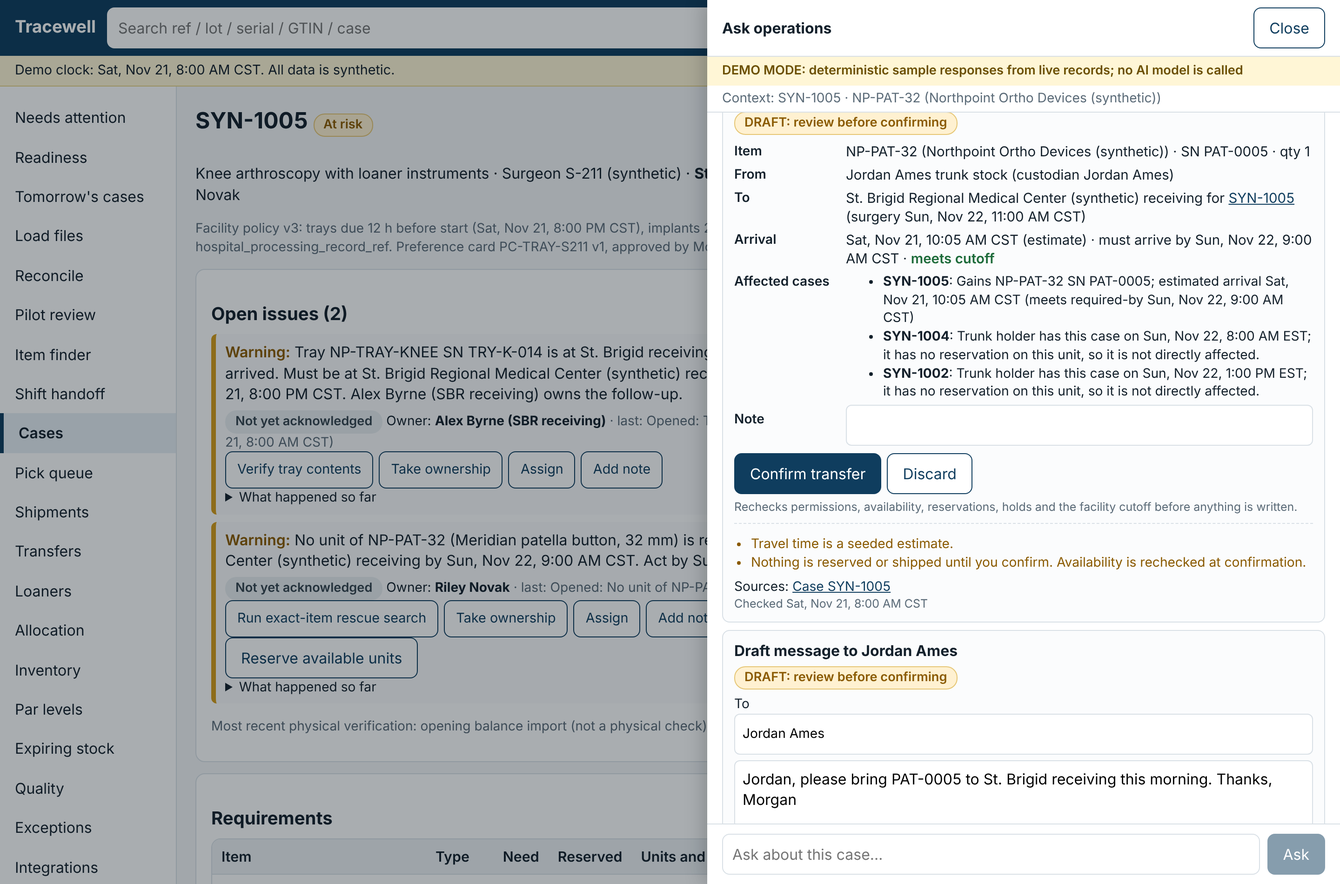
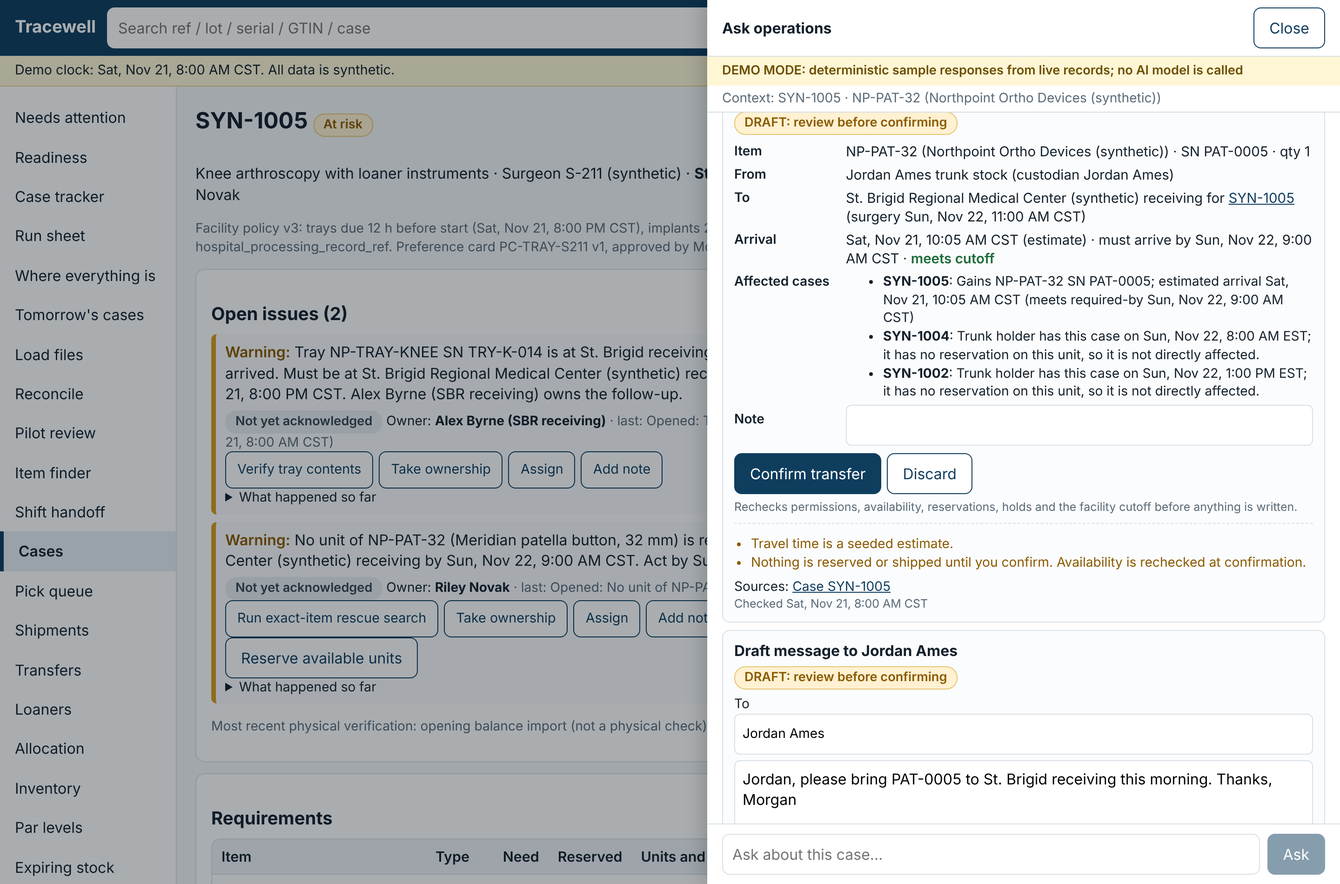
Case tracker, where everything is, run sheet, and whose-work filter on the queue
- Case tracker: each case from entry to close in seven stages, with the one thing it is waiting on.
- Where everything is: every unit by warehouse, reps, hospitals, in transit, quarantine and returns;
  reserved against free; items short for the planning window first.
- Run sheet: what has to leave, grouped by origin, in order of latest safe departure. Printable.
  A deadline order, not a distance-optimized route.
- Queue: filter by owner or by who an item is waiting on.

Claude-Session: https://claude.ai/code/session_01Axjjo4ZYpwGvBPpNfVL9QP

diff --git a/src/server/ops/visibility.ts b/src/server/ops/visibility.ts
@@ -1,0 +1,117 @@
+/**
+ * Three read-only views for Operations, all straight from the ledger and shipments:
+ *  - where every unit is right now (warehouse, reps, hospitals, in transit, quarantine), reserved or free
+ *  - each case's progress from entry to return
+ *  - today's and tomorrow's run sheet: what must leave where, in order of the latest safe departure
+ */
+import { Db, rows } from '../db.js';
+import { Ctx, can, requirePerm } from '../perms.js';
+import { now } from '../clock.js';
+import { fmtLocal } from '../domain/cases.js';
+import { caseScope } from '../perms.js';
+import { getSettings } from './settings.js';
+
+const BUCKET: Record<string, string> = { warehouse: 'warehouse', trunk: 'reps', consignment: 'hospitals', hospital_receiving: 'hospitals', hospital_spd: 'hospitals', in_transit: 'inTransit', quarantine: 'quarantine', returns: 'returns' };
+export const BUCKET_LABEL: Record<string, string> = { warehouse: 'Warehouse', reps: 'With reps', hospitals: 'At hospitals', inTransit: 'In transit', quarantine: 'Quarantine', returns: 'Being returned' };
+
+export async function whereIsEverything(db: Db, ctx: Ctx & { tenantTz?: string }) {
+  requirePerm(ctx, 'inventory.view');
+  const t = now(); const s = await getSettings(db);
+  const bal = await rows(db, `select b.qty, b.condition, st.id stock_item_id, st.lot_number, st.serial_number, st.expiry_date, ci.id catalog_item_id, ci.ref, ci.description, ci.item_type, l.id location_id, l.name location, l.kind, hu.display_name holder, p.name owner, p.kind owner_kind,
+      coalesce((select sum(r.qty) from reservations r where r.stock_item_id=b.stock_item_id and r.location_id=b.location_id and r.owner_party_id=b.owner_party_id and r.status='active'),0)::int reserved,
+      (select string_agg(distinct c.case_ref, ', ') from reservations r join cases c on c.id=r.case_id where r.stock_item_id=b.stock_item_id and r.location_id=b.location_id and r.status='active') reserved_for,
+      exists(select 1 from quality_holds h where h.stock_item_id=b.stock_item_id and h.status='active') on_hold,
+      (select sh.ref from shipment_lines sl join shipments sh on sh.id=sl.shipment_id where sl.stock_item_id=b.stock_item_id and sh.status='dispatched' limit 1) shipment_ref,
+      (select ln.ref from loaner_requests ln where ln.stock_item_id=b.stock_item_id and ln.status='received' limit 1) loaner_ref
+    from stock_balances b join stock_items st on st.id=b.stock_item_id join catalog_items ci on ci.id=st.catalog_item_id join locations l on l.id=b.location_id join parties p on p.id=b.owner_party_id left join users hu on hu.id=l.holder_user_id
+    where b.qty>0 and l.kind not in ('consumed','wasted','missing') and ci.item_type <> 'instrument' order by ci.ref, l.kind, l.name`);
+  const demand = new Map((await rows(db, `select cr.catalog_item_id, sum(greatest(cr.qty - coalesce((select sum(r.qty) from reservations r where r.requirement_id=cr.id and r.status='active'),0),0))::int n
+     from case_requirements cr join cases c on c.id=cr.case_id where cr.active and cr.mandatory and c.status='scheduled' and c.scheduled_start between $1 and $2 group by 1`, [t.toISOString(), new Date(t.getTime() + s.planningWindowHours * 3600e3).toISOString()])).map((d) => [d.catalog_item_id, d.n]));
+  const items = new Map<string, any>();
+  for (const b of bal) {
+    if (!items.has(b.catalog_item_id)) items.set(b.catalog_item_id, { catalogItemId: b.catalog_item_id, ref: b.ref, description: b.description, itemType: b.item_type, total: 0, reserved: 0, free: 0, onHold: 0, onLoan: 0, buckets: { warehouse: 0, reps: 0, hospitals: 0, inTransit: 0, quarantine: 0, returns: 0 }, units: [] as any[], unreservedDemand: demand.get(b.catalog_item_id) ?? 0 });
+    const it = items.get(b.catalog_item_id); const bucket = BUCKET[b.kind] ?? 'warehouse';
+    const usable = b.condition === 'sealed' && !b.on_hold && ['warehouse', 'reps', 'hospitals'].includes(bucket);
+    const free = usable ? Math.max(0, b.qty - b.reserved) : 0;
+    it.total += b.qty; it.buckets[bucket] += b.qty; it.reserved += b.reserved; it.free += free; if (b.on_hold) it.onHold += b.qty; if (b.loaner_ref) it.onLoan += b.qty;
+    it.units.push({ unit: b.serial_number ? `SN ${b.serial_number}` : `lot ${b.lot_number}`, location: b.location, bucket, bucketLabel: BUCKET_LABEL[bucket], holder: b.holder, qty: b.qty, reserved: b.reserved, reservedFor: b.reserved_for, free, condition: b.condition, onHold: b.on_hold,
+      expiry: b.expiry_date ? (typeof b.expiry_date === 'string' ? b.expiry_date : b.expiry_date.toISOString().slice(0, 10)) : null, owner: b.owner, loaner: b.loaner_ref, shipment: b.shipment_ref });
+  }
+  const list = [...items.values()].map((it) => ({ ...it, gap: Math.max(0, it.unreservedDemand - it.free) })).sort((a, b) => b.gap - a.gap || a.ref.localeCompare(b.ref));
+  const totals = list.reduce((a, it) => { for (const k of Object.keys(a)) a[k] += it.buckets[k]; return a; }, { warehouse: 0, reps: 0, hospitals: 0, inTransit: 0, quarantine: 0, returns: 0 } as Record<string, number>);
+  return { asOfLocal: fmtLocal(t, ctx.tenantTz ?? 'UTC'), windowHours: s.planningWindowHours, labels: BUCKET_LABEL, totals, items: list,
+    note: 'From the stock ledger at this moment. Free = sealed, not on hold, not reserved, in a warehouse, with a rep or at a hospital. It is as current as the last scan, count or upload recorded here.' };
+}
+
+const STAGES = ['Entered', 'Items reserved', 'Shipped', 'Checked in at hospital', 'Surgery done', 'Usage recorded', 'Closed'] as const;
+
+/** Each case from entry to close, with the one thing it is waiting on. */
+export async function caseTracker(db: Db, ctx: Ctx) {
+  requirePerm(ctx, 'board.view');
+  const t = now(); const s = await getSettings(db);
+  const [scope, sp] = caseScope(ctx, 3);
+  const cases = await rows(db, `select c.id, c.case_ref, c.status, c.scheduled_start, c.created_at, c.completed_at, f.name facility, f.timezone, f.id facility_id, u.display_name rep, c.procedure,
+      (select count(*)::int from case_requirements cr where cr.case_id=c.id and cr.active and cr.mandatory) reqs,
+      (select coalesce(sum(cr.qty),0)::int from case_requirements cr where cr.case_id=c.id and cr.active and cr.mandatory) need,
+      (select coalesce(sum(r.qty),0)::int from reservations r join case_requirements cr on cr.id=r.requirement_id where r.case_id=c.id and r.status in ('active','consumed') and cr.active and cr.mandatory) held,
+      (select coalesce(sum(r.qty),0)::int from reservations r join locations l on l.id=r.location_id where r.case_id=c.id and r.status='active' and l.facility_id=c.facility_id and l.kind in ('hospital_receiving','hospital_spd','consignment')) at_site,
+      (select coalesce(sum(r.qty),0)::int from reservations r where r.case_id=c.id and r.status='active') active_resv,
+      (select count(*)::int from shipments sh where sh.case_id=c.id and sh.status in ('planned','picked','packed')) not_left,
+      (select count(*)::int from shipments sh where sh.case_id=c.id and sh.status='dispatched') on_road,
+      (select count(*)::int from shipments sh where sh.case_id=c.id and sh.status='delivered') delivered,
+      (select count(*)::int from shipments sh where sh.case_id=c.id and sh.status in ('received','closed')) received,
+      (select count(*)::int from usage_events ue where ue.case_id=c.id and ue.status='recorded') usage,
+      (select count(*)::int from usage_events ue where ue.case_id=c.id and ue.status='needs_review') usage_review,
+      (select coalesce(sum(b.qty),0)::int from stock_balances b join locations l on l.id=b.location_id where l.facility_id=c.facility_id and l.kind in ('hospital_receiving','hospital_spd') and b.qty>0
+         and b.stock_item_id in (select sl.stock_item_id from shipment_lines sl join shipments sh on sh.id=sl.shipment_id where sh.case_id=c.id)) left_at_site,
+      (select string_agg(ln.ref, ', ') from loaner_requests ln where ln.case_id=c.id and ln.status in ('requested','confirmed','shipped','received')) loaners,
+      (select string_agg(tr.ref, ', ') from transfer_requests tr where tr.case_id=c.id and tr.status='requested') transfers
+    from cases c join facilities f on f.id=c.facility_id left join users u on u.id=c.rep_user_id
+    where c.status <> 'cancelled' and c.scheduled_start between $1 and $2 and ${scope} order by c.scheduled_start`, [new Date(t.getTime() - 7 * 86400e3).toISOString(), new Date(t.getTime() + Math.max(s.planningWindowHours, 168) * 3600e3).toISOString(), ...sp]);
+  const out = cases.map((c) => {
+    const past = new Date(c.scheduled_start) < t; const doneCase = ['completed', 'closed'].includes(c.status);
+    const reserved = c.reqs > 0 && c.held >= c.need;
+    const allAtSite = c.active_resv > 0 && c.at_site >= c.active_resv;
+    const shipped = reserved && (allAtSite || (c.not_left === 0 && (c.on_road + c.delivered + c.received) > 0));
+    const checkedIn = reserved && (allAtSite || (c.not_left === 0 && c.on_road === 0 && c.delivered === 0 && c.received > 0));
+    const done = [true, reserved || doneCase, shipped || doneCase, checkedIn || doneCase, doneCase, doneCase && c.usage_review === 0 && (c.usage > 0 || c.status === 'closed'), c.status === 'closed'];
+    const idx = done.findIndex((d) => !d); const stage = idx === -1 ? STAGES.length - 1 : idx - 1;
+    const waiting = idx === -1 ? null : idx === 1 ? (c.reqs === 0 ? 'Requirements have not been loaded' : `${c.need - c.held} unit(s) still to reserve${c.transfers ? ` (${c.transfers} awaiting acceptance)` : ''}${c.loaners ? ` (${c.loaners} on the way)` : ''}`)
+      : idx === 2 ? (c.not_left ? `${c.not_left} shipment(s) not yet picked up` : 'Delivery not planned') : idx === 3 ? (c.delivered ? 'Hospital receiving to check the delivery in' : c.on_road ? 'On the road' : 'Not all items are at the hospital')
+      : idx === 4 ? (past ? 'Rep to complete the case and record what was used' : null) : idx === 5 ? (c.usage_review ? `${c.usage_review} usage record(s) need review` : 'Usage to be recorded') : (c.left_at_site ? `${c.left_at_site} unit(s) still at the hospital to bring back` : 'Closeout to finish');
+    return { id: c.id, caseRef: c.case_ref, facility: c.facility, rep: c.rep, procedure: c.procedure, startLocal: fmtLocal(c.scheduled_start, c.timezone), enteredLocal: fmtLocal(c.created_at, c.timezone), past, status: c.status,
+      stage, stageName: STAGES[stage], steps: STAGES.map((n, i) => ({ name: n, done: done[i] })), waitingOn: waiting, behind: !!waiting && (idx <= 3 ? hoursTo(c.scheduled_start, t) < 24 : past && hoursTo(c.scheduled_start, t) < -24),
+      leftAtSite: doneCase ? c.left_at_site : 0, loaners: c.loaners, transfers: c.transfers };
+  });
+  return { stages: STAGES, upcoming: out.filter((c) => !c.past), recent: out.filter((c) => c.past).reverse(), toBringBack: out.filter((c) => c.leftAtSite > 0).reduce((a, c) => a + c.leftAtSite, 0) };
+}
+const hoursTo = (iso: string, t: Date) => (new Date(iso).getTime() - t.getTime()) / 3600e3;
+
+/** What has to leave, from where, in order of the latest safe departure. Ordered by deadline; not optimized for distance. */
+export async function runSheet(db: Db, ctx: Ctx & { tenantTz?: string }) {
+  if (!can(ctx, 'shipment.pick') && !can(ctx, 'shipment.courier') && !can(ctx, 'attention.view')) requirePerm(ctx, 'shipment.pick');
+  const t = now(); const tz = ctx.tenantTz ?? 'UTC';
+  const sh = await rows(db, `select sh.id, sh.ref, sh.kind, sh.status, sh.due_by, sh.courier_name, c.case_ref, c.id case_id, c.scheduled_start, fl.id from_id, fl.name from_name, fl.kind from_kind, hu.display_name from_holder, tl.name to_name, tf.name to_facility, tf.timezone, tf.id to_facility_id,
+      te.minutes travel_min, (select coalesce(sum(sl.qty_expected),0)::int from shipment_lines sl where sl.shipment_id=sh.id) units,
+      (select string_agg(distinct ci.ref, ', ') from shipment_lines sl join stock_items st on st.id=sl.stock_item_id join catalog_items ci on ci.id=st.catalog_item_id where sl.shipment_id=sh.id) items,
+      tr.ref transfer_ref, tr.id transfer_id, tr.pickup_by, tr.pickup_at, tr.receiver
+    from shipments sh join locations fl on fl.id=sh.from_location_id join locations tl on tl.id=sh.to_location_id left join facilities tf on tf.id=tl.facility_id left join cases c on c.id=sh.case_id left join users hu on hu.id=fl.holder_user_id
+      left join travel_estimates te on te.from_location_id=sh.from_location_id and te.to_facility_id=tl.facility_id left join transfer_requests tr on tr.shipment_id=sh.id
+    where sh.status in ('planned','picked','packed','dispatched','delivered') and ($1::uuid is null or tl.facility_id=$1) order by sh.due_by nulls last`, [ctx.facilityId]);
+  const stops = sh.map((x) => {
+    const zone = x.timezone ?? tz; const due = x.due_by ? new Date(x.due_by) : null;
+    const leaveBy = due && x.travel_min != null ? new Date(due.getTime() - x.travel_min * 60e3) : null;
+    const moving = ['dispatched', 'delivered'].includes(x.status);
+    const next = x.status === 'planned' ? 'Pick' : x.status === 'picked' ? 'Pack' : x.status === 'packed' ? 'Hand to courier / dispatch' : x.status === 'dispatched' ? 'Deliver' : 'Hospital check-in';
+    const minutesLeft = !moving && leaveBy ? Math.round((leaveBy.getTime() - t.getTime()) / 60e3) : null;
+    return { id: x.id, ref: x.ref, kind: x.kind, kindLabel: x.transfer_ref ? `Transfer ${x.transfer_ref}` : x.kind === 'case_delivery' ? 'Case delivery' : x.kind === 'return' ? 'Return' : x.kind === 'replenishment' ? 'Replenishment' : 'Transfer', status: x.status, next, caseId: x.case_id, caseRef: x.case_ref,
+      from: x.from_name, fromHolder: x.from_holder, to: x.to_facility ?? x.to_name, units: x.units, items: x.items, travelMinutes: x.travel_min, dueLocal: due ? fmtLocal(due, zone) : null, leaveByLocal: leaveBy ? fmtLocal(leaveBy, zone) : null, minutesLeft,
+      late: minutesLeft != null && minutesLeft < 0, moving, who: x.pickup_by ?? x.courier_name ?? (x.from_kind === 'trunk' ? x.from_holder : 'Warehouse / courier'), plannedPickupLocal: x.pickup_at ? fmtLocal(x.pickup_at, zone) : null, receiver: x.receiver, transferId: x.transfer_id, sort: (leaveBy ?? due ?? new Date(8.64e15)).getTime() };
+  }).sort((a, b) => Number(a.moving) - Number(b.moving) || a.sort - b.sort);
+  const returns = can(ctx, 'loaner.view') ? (await rows(db, `select ln.id, ln.ref, ln.qty, ln.due_back, ln.source_name, ci.ref item_ref, c.case_ref, loc.name at_name from loaner_requests ln join catalog_items ci on ci.id=ln.catalog_item_id join cases c on c.id=ln.case_id left join locations loc on loc.id=ln.received_location_id where ln.status='received' order by ln.due_back`))
+    .map((l) => ({ id: l.id, ref: l.ref, qty: l.qty, item: l.item_ref, caseRef: l.case_ref, at: l.at_name, source: l.source_name, dueBack: typeof l.due_back === 'string' ? l.due_back : l.due_back?.toISOString().slice(0, 10) })) : [];
+  const groups = new Map<string, any[]>(); for (const st of stops.filter((x) => !x.moving)) { if (!groups.has(st.from)) groups.set(st.from, []); groups.get(st.from)!.push(st); }
+  return { asOfLocal: fmtLocal(t, tz), toLeave: [...groups.entries()].map(([from, list]) => ({ from, stops: list })), onTheRoad: stops.filter((x) => x.moving), loanerReturns: returns,
+    counts: { toLeave: stops.filter((x) => !x.moving).length, late: stops.filter((x) => x.late).length, onTheRoad: stops.filter((x) => x.moving).length },
+    note: 'In order of the latest safe departure: required-by time minus the travel estimate entered for that route. This is a deadline order, not a distance-optimized route, and travel times are estimates, not live traffic.' };
+}

diff --git a/src/web/pages/Visibility.tsx b/src/web/pages/Visibility.tsx
@@ -1,0 +1,78 @@
+/** Where everything is, each case from entry to close, and the run sheet. Read-only views over the ledger and shipments. */
+import React, { useEffect, useState } from 'react';
+import { Link } from 'react-router-dom';
+import { useData, Err } from '../App';
+
+const BUCKETS = ['warehouse', 'reps', 'hospitals', 'inTransit', 'quarantine', 'returns'];
+
+export function WhereIsEverything() {
+  const { data, error, reload } = useData<any>('/api/stock/where');
+  const [open, setOpen] = useState<string | null>(null); const [q, setQ] = useState(''); const [only, setOnly] = useState(false);
+  useEffect(() => { const t = setInterval(reload, 60000); return () => clearInterval(t); }, [reload]);
+  const items = (data?.items ?? []).filter((it: any) => (!q || `${it.ref} ${it.description}`.toLowerCase().includes(q.toLowerCase())) && (!only || it.gap > 0));
+  return (<div>
+    <div className="row" style={{ justifyContent: 'space-between' }}><h1>Where everything is</h1><button className="secondary" onClick={reload}>Refresh</button></div>
+    <p className="muted small">Every unit by where it is right now, as of {data?.asOfLocal}. {data?.note}</p>
+    <Err e={error} />
+    {data && <div className="nums" data-testid="where-totals">{BUCKETS.map((b) => <div key={b} className="num"><span className="num-v">{data.totals[b]}</span><span className="num-l">{data.labels[b]}</span></div>)}</div>}
+    <div className="row tight"><input aria-label="Filter items" placeholder="Filter by catalog number or description" value={q} onChange={(e) => setQ(e.target.value)} style={{ maxWidth: 360 }} />
+      <label className="small"><input type="checkbox" checked={only} onChange={(e) => setOnly(e.target.checked)} /> Only items with not enough free stock for the next {data?.windowHours} h</label></div>
+    <div className="table-wrap"><table aria-label="Inventory by location"><thead><tr><th>Item</th>{BUCKETS.map((b) => <th key={b}>{data?.labels[b]}</th>)}<th>Total</th><th>Reserved</th><th>Free</th><th>Unreserved case demand</th><th></th></tr></thead>
+      <tbody>{items.map((it: any) => <React.Fragment key={it.catalogItemId}>
+        <tr data-item={it.ref} className={it.gap > 0 ? 'row-bad' : ''}><td><strong>{it.ref}</strong><div className="small muted">{it.description}</div></td>{BUCKETS.map((b) => <td key={b}>{it.buckets[b] || <span className="muted">·</span>}</td>)}
+          <td><strong>{it.total}</strong></td><td>{it.reserved}</td><td>{it.free}{it.onHold > 0 && <div className="small sev-critical">{it.onHold} on hold</div>}{it.onLoan > 0 && <div className="small muted">{it.onLoan} on loan</div>}</td>
+          <td>{it.unreservedDemand}{it.gap > 0 && <div><span className="badge st-blocked">{it.gap} short</span></div>}</td>
+          <td><button className="secondary" aria-expanded={open === it.catalogItemId} onClick={() => setOpen(open === it.catalogItemId ? null : it.catalogItemId)}>{open === it.catalogItemId ? 'Hide' : 'Units'}</button></td></tr>
+        {open === it.catalogItemId && <tr><td colSpan={BUCKETS.length + 6}><div className="table-wrap"><table aria-label={`Units of ${it.ref}`}><thead><tr><th>Unit</th><th>Where</th><th>Held by</th><th>Qty</th><th>Reserved for</th><th>Free</th><th>Expiry</th><th>Owner</th></tr></thead>
+          <tbody>{it.units.map((u: any, i: number) => <tr key={i}><td>{u.unit}</td><td>{u.location}<div className="small muted">{u.bucketLabel}{u.shipment ? ` · ${u.shipment}` : ''}</div></td><td>{u.holder ?? '—'}</td><td>{u.qty}{u.condition !== 'sealed' && <div className="small sev-warning">{u.condition}</div>}</td>
+            <td>{u.reservedFor ?? '—'}</td><td>{u.free}{u.onHold && <div className="small sev-critical">on hold</div>}</td><td>{u.expiry ?? '—'}</td><td className="small">{u.owner}{u.loaner && <div className="muted">loaner {u.loaner}</div>}</td></tr>)}</tbody></table></div></td></tr>}
+      </React.Fragment>)}
+        {data && !items.length && <tr><td colSpan={BUCKETS.length + 6} className="muted">No items match.</td></tr>}</tbody></table></div>
+  </div>);
+}
+
+function Track({ steps }: { steps: any[] }) {
+  const cur = steps.findIndex((s) => !s.done);
+  return <ol className="track" aria-label="Progress">{steps.map((s, i) => <li key={s.name} className={s.done ? 'done' : i === cur ? 'next' : ''} title={s.name}><span className="sr">{s.name}: {s.done ? 'done' : i === cur ? 'next' : 'not yet'}</span></li>)}</ol>;
+}
+function TrackTable({ list, label }: { list: any[]; label: string }) {
+  return <div className="table-wrap"><table aria-label={label}><thead><tr><th>Case</th><th>Surgery</th><th>Rep</th><th>Progress</th><th>Stage</th><th>Waiting on</th></tr></thead>
+    <tbody>{list.map((c) => <tr key={c.id} data-case={c.caseRef} data-stage={c.stageName} className={c.behind ? 'row-bad' : ''}><td><Link to={`/cases/${c.id}`}><strong>{c.caseRef}</strong></Link><div className="small muted">{c.facility}</div></td><td className="small">{c.startLocal}<div className="muted">entered {c.enteredLocal}</div></td><td>{c.rep ?? '—'}</td>
+      <td><Track steps={c.steps} /></td><td><span className={`badge ${c.stageName === 'Closed' ? 'st-ready' : c.behind ? 'st-blocked' : 'st-at_risk'}`}>{c.stageName}</span></td><td className="small">{c.waitingOn ?? '—'}</td></tr>)}
+      {!list.length && <tr><td colSpan={6} className="muted">None.</td></tr>}</tbody></table></div>;
+}
+export function CaseTracker() {
+  const { data, error } = useData<any>('/api/case-tracker');
+  return (<div><h1>Case tracker</h1>
+    <p className="muted small">Each case from the moment it was entered to the moment it is closed and everything is back. One line per case, with the one thing it is waiting on. Rows in red are behind for where the surgery date is.</p>
+    <Err e={error} />
+    {data && <p className="small"><strong>Stages:</strong> {data.stages.join(' → ')}{data.toBringBack > 0 && <> · <strong>{data.toBringBack}</strong> unit(s) still at hospitals after finished cases</>}</p>}
+    <h2>Upcoming ({data?.upcoming.length ?? 0})</h2>{data && <TrackTable list={data.upcoming} label="Upcoming cases" />}
+    <h2>Last 7 days ({data?.recent.length ?? 0})</h2>{data && <TrackTable list={data.recent} label="Recent cases" />}
+  </div>);
+}
+
+function Stop({ s }: { s: any }) {
+  return <tr data-ref={s.ref} className={s.late ? 'row-bad' : ''}><td><Link to={`/shipments/${s.id}`}><strong>{s.ref}</strong></Link><div className="small muted">{s.kindLabel}</div></td><td>{s.to}{s.caseRef && <div className="small muted">for <Link to={`/cases/${s.caseId}`}>{s.caseRef}</Link></div>}</td>
+    <td className="small">{s.units} unit(s)<div className="muted">{s.items}</div></td><td className="small">{s.who}{s.plannedPickupLocal && <div className="muted">planned {s.plannedPickupLocal}</div>}</td>
+    <td className="small">{s.leaveByLocal ?? '—'}{s.minutesLeft != null && <div className={s.late ? 'sev-critical' : s.minutesLeft < 120 ? 'sev-warning' : 'muted'}>{s.late ? `${-s.minutesLeft} min overdue` : `${Math.floor(s.minutesLeft / 60)} h ${s.minutesLeft % 60} min left`}</div>}</td>
+    <td className="small">{s.dueLocal ?? '—'}<div className="muted">{s.travelMinutes != null ? `${s.travelMinutes} min travel (estimate)` : 'no travel estimate'}</div></td><td><span className="badge st-at_risk">{s.status}</span><div className="small">Next: {s.next}</div></td></tr>;
+}
+export function RunSheet() {
+  const { data, error, reload } = useData<any>('/api/run-sheet');
+  useEffect(() => { const t = setInterval(reload, 60000); return () => clearInterval(t); }, [reload]);
+  const head = <thead><tr><th>Shipment</th><th>To</th><th>What</th><th>Who</th><th>Must leave by</th><th>Required there by</th><th>Status</th></tr></thead>;
+  return (<div>
+    <div className="row" style={{ justifyContent: 'space-between' }}><h1>Run sheet</h1><div className="row tight"><button className="secondary" onClick={() => window.print()}>Print</button><button className="secondary" onClick={reload}>Refresh</button></div></div>
+    <p className="muted small">What has to leave, from where, as of {data?.asOfLocal}. {data?.note}</p>
+    <Err e={error} />
+    {data && <p data-testid="run-counts"><span className="badge st-at_risk">{data.counts.toLeave} to leave</span> {data.counts.late > 0 && <span className="badge st-blocked">{data.counts.late} past their departure time</span>} <span className="badge st-closed">{data.counts.onTheRoad} on the road</span></p>}
+    {data?.toLeave.map((g: any) => <section key={g.from} className="card" data-from={g.from}><h2 style={{ marginTop: 0 }}>From {g.from} <span className="small muted">({g.stops.length} stop{g.stops.length === 1 ? '' : 's'})</span></h2>
+      <div className="table-wrap"><table aria-label={`Leaving ${g.from}`}>{head}<tbody>{g.stops.map((s: any) => <Stop key={s.id} s={s} />)}</tbody></table></div></section>)}
+    {data && !data.toLeave.length && <div className="ok">Nothing is waiting to leave.</div>}
+    <h2>On the road ({data?.onTheRoad.length ?? 0})</h2>
+    <div className="table-wrap"><table aria-label="On the road">{head}<tbody>{data?.onTheRoad.map((s: any) => <Stop key={s.id} s={s} />)}{data && !data.onTheRoad.length && <tr><td colSpan={7} className="muted">Nothing in transit.</td></tr>}</tbody></table></div>
+    {data?.loanerReturns.length > 0 && <><h2>Loaners to send back</h2><div className="table-wrap"><table aria-label="Loaner returns"><thead><tr><th>Loaner</th><th>Item</th><th>Used for</th><th>Where it is</th><th>Return to</th><th>Due back</th></tr></thead>
+      <tbody>{data.loanerReturns.map((l: any) => <tr key={l.id}><td><Link to={`/loaners/${l.id}`}>{l.ref}</Link></td><td>{l.qty} x {l.item}</td><td>{l.caseRef}</td><td>{l.at}</td><td>{l.source}</td><td>{l.dueBack}</td></tr>)}</tbody></table></div></>}
+  </div>);
+}

diff --git a/tests/integration/command.test.ts b/tests/integration/command.test.ts
@@ -252,6 +252,42 @@ describe('Moving in from another system', () => {
   });
 });
 
+describe('Visibility views (fresh demo)', () => {
+  beforeAll(async () => { T = (await seedDemoAccount({ day: '2026-11-23' })).tenantId; app = await httpApp(); });
+  it('where everything is: buckets add up to the ledger, free excludes reserved, and short items come first', async () => {
+    const w = await get(U.ops, '/api/stock/where');
+    const ledger = (await tx((db) => db.query(`select coalesce(sum(b.qty),0)::int n from stock_balances b join locations l on l.id=b.location_id join stock_items s on s.id=b.stock_item_id join catalog_items ci on ci.id=s.catalog_item_id where b.qty>0 and l.kind not in ('consumed','wasted','missing') and ci.item_type<>'instrument'`))).rows[0].n;
+    expect(Object.values(w.totals).reduce((a: number, n: any) => a + n, 0)).toBe(ledger);
+    expect(w.items[0]).toMatchObject({ ref: '00417', total: 5, reserved: 4, free: 1, unreservedDemand: 2, gap: 1 });
+    expect(w.items[0].buckets).toMatchObject({ warehouse: 4, reps: 1 });
+    expect(w.items[0].units.find((u: any) => u.bucket === 'reps')).toMatchObject({ holder: 'Chris Okafor', free: 1 });
+    expect((await (await app.as(U.recvMarlowe)).get('/api/stock/where')).statusCode).toBe(403);
+  });
+  it('case tracker: one stage per case and the thing it is waiting on; hospital staff see only their own cases', async () => {
+    const t = await get(U.ops, '/api/case-tracker');
+    const by = (ref: string) => [...t.upcoming, ...t.recent].find((c: any) => c.caseRef === ref);
+    expect(by('NL-3021')).toMatchObject({ stageName: 'Entered', waitingOn: '2 unit(s) still to reserve', behind: true });
+    expect(by('NL-3022')).toMatchObject({ stageName: 'Shipped', waitingOn: 'Hospital receiving to check the delivery in' });
+    expect(by('NL-3025').stageName).toBe('Checked in at hospital');
+    expect(by('NL-3030')).toMatchObject({ stageName: 'Items reserved', waitingOn: 'Delivery not planned', behind: false });
+    expect(by('NL-3018')).toMatchObject({ past: true, waitingOn: 'Rep to complete the case and record what was used' });
+    const h = await get(U.recvHarlan, '/api/case-tracker');
+    expect([...h.upcoming, ...h.recent].every((c: any) => c.facility === 'Harlan Surgery Center')).toBe(true);
+  });
+  it('run sheet: planned shipments in order of latest safe departure; delivered ones listed as on the road', async () => {
+    const before = await get(U.warehouse, '/api/run-sheet');
+    expect(before.counts).toMatchObject({ toLeave: 0, onTheRoad: 1 });
+    const c30 = (await ids('NL-3030', '00417')).case_id; const c31 = (await ids('NL-3031', '00417')).case_id;
+    for (const c of [c31, c30]) expect((await post(U.coordinator, `/api/cases/${c}/plan-delivery`)).statusCode).toBe(200);
+    const r = await get(U.warehouse, '/api/run-sheet');
+    expect(r.counts.toLeave).toBe(2);
+    const stops = r.toLeave.find((g: any) => g.from === 'Northline Central Warehouse').stops;
+    expect(stops.map((s: any) => s.caseRef)).toEqual(['NL-3030', 'NL-3031']);
+    expect(stops[0]).toMatchObject({ next: 'Pick', travelMinutes: 45, late: false, units: 2 });
+    expect((await get(U.ops, '/api/case-tracker')).upcoming.find((c: any) => c.caseRef === 'NL-3030').waitingOn).toBe('1 shipment(s) not yet picked up');
+  });
+});
+
 describe('Declining a transfer', () => {
   it('releases the unit, records why, and tells the owner', async () => {
     T = (await seedDemoAccount({ day: '2026-11-23' })).tenantId; app = await httpApp();

diff --git a/src/web/pages/Command.tsx b/src/web/pages/Command.tsx
@@ -48,6 +48,9 @@ export function Attention() {
   const { run, msg, err, busy } = useQueueActions(reload);
   useEffect(() => { const t = setInterval(reload, 60000); return () => clearInterval(t); }, [reload]);
   const k = data?.counts;
+  const [who, setWho] = useState('');
+  const people: Record<string, number> = {}; for (const i of data?.items ?? []) for (const n of new Set([i.owner, i.waitingOn].filter(Boolean))) people[n as string] = (people[n as string] ?? 0) + 1;
+  const shown = (data?.items ?? []).filter((i: any) => !who || i.owner === who || i.waitingOn === who);
   return (
     <div>
       <div className="row" style={{ justifyContent: 'space-between' }}>
@@ -63,7 +66,10 @@ export function Attention() {
         <span className="small muted"> · {k.casesReady} of {k.cases} upcoming cases are ready · checked {data.generatedAtLocal}{data.byLocal ? ` · showing what is due by ${data.byLocal}` : ''}</span></p>}
       <Err e={error ?? err} />
       {msg && <div className="ok" role="status">{msg}</div>}
-      <ol className="queue">{data?.items.map((i: any, n: number) => (
+      {Object.keys(people).length > 0 && <div className="row tight" role="group" aria-label="Whose work"><span className="small"><strong>Whose:</strong></span>
+        <button className={who === '' ? '' : 'secondary'} aria-pressed={who === ''} onClick={() => setWho('')}>Everyone ({data.items.length})</button>
+        {Object.entries(people).sort((a, b) => b[1] - a[1]).map(([n, c]) => <button key={n} className={who === n ? '' : 'secondary'} aria-pressed={who === n} onClick={() => setWho(n)}>{n} ({c})</button>)}</div>}
+      <ol className="queue">{shown.map((i: any, n: number) => (
         <li key={i.id} className={`card q-item q-${i.priority}`} data-priority={i.priority} data-kind={i.kind} data-case={i.caseRef ?? ''}>
           <div className="row" style={{ justifyContent: 'space-between', alignItems: 'flex-start' }}>
             <div><span className={`badge q-badge-${i.priority}`}>{n + 1}. {PRI_LABEL[i.priority]}</span> {i.caseId ? <Link to={`/cases/${i.caseId}`}><strong>{i.caseRef}</strong></Link> : null}

diff --git a/src/web/pages/Review.tsx b/src/web/pages/Review.tsx
@@ -55,7 +55,7 @@ const STEPS: { title: string; changed: string; do: React.ReactNode; ask: string 
     do: <>Open <Link to="/quality">Quality</Link> and click <strong>RCL-001</strong>. The top of the page now gives the counts and a numbered action list with links to each affected case. Click <strong>Activate recall</strong>, then return to <Link to="/attention">Needs attention</Link>: the affected cases are flagged.</> },
   { title: 'The rest of the inventory lifecycle, and moving from RedSpot or Salesforce', changed: 'You said: par levels, expiration, allocation by priority rule, one system for the whole lifecycle.',
     ask: 'Overall: is this closer to worth a pilot? What is the one thing that would still have to be true first?',
-    do: <>Look at <Link to="/allocation">Allocation</Link> (demand against stock, first case entered served first), <Link to="/stock/par">Par levels</Link>, <Link to="/stock/expiring">Expiring stock</Link>, and <Link to="/move-in">Move from another system</Link>, which shows how records come across from RedSpot or Salesforce exports. Two things are deliberately not built yet because they need real history to be honest: demand forecasting and courier route optimization.</> },
+    do: <>New since your review: <Link to="/tracker">Case tracker</Link> (each case from entry to close, with what it is waiting on), <Link to="/stock/where">Where everything is</Link> (warehouse, reps, hospitals, in transit) and the <Link to="/run-sheet">Run sheet</Link> (what must leave, in deadline order). Also look at <Link to="/allocation">Allocation</Link> (demand against stock, first case entered served first), <Link to="/stock/par">Par levels</Link>, <Link to="/stock/expiring">Expiring stock</Link>, and <Link to="/move-in">Move from another system</Link>, which shows how records come across from RedSpot or Salesforce exports. Two things are deliberately not built yet because they need real history to be honest: demand forecasting and courier route optimization.</> },
 ];
 
 export function ReviewGuide() {

diff --git a/src/web/App.tsx b/src/web/App.tsx
@@ -10,6 +10,7 @@ import { UploadsPage, UploadRun } from './pages/Uploads';
 import { Tomorrow, Reconcile, PilotReview, PilotReport } from './pages/Pilot';
 import { Attention, Transfers, TransferDetail, Loaners, LoanerDetail, ParLevels, Expiring, Allocation, OpsSettings } from './pages/Command';
 import { MoveIn } from './pages/MoveIn';
+import { WhereIsEverything, CaseTracker, RunSheet } from './pages/Visibility';
 import { ReviewGuide, FeedbackList, FeedbackButton } from './pages/Review';
 import { Rescue } from './pages/Rescue';
 import { Shipments, ShipmentDetail, PickQueue } from './pages/Shipments';
@@ -96,6 +97,9 @@ function SyncBar({ me }: { me: Me }) {
 const NAV: { to: string; label: string; perm?: string; roles?: string[]; review?: boolean }[] = [
   { to: '/attention', label: 'Needs attention', perm: 'attention.view' },
   { to: '/board', label: 'Readiness', perm: 'board.view' },
+  { to: '/tracker', label: 'Case tracker', perm: 'attention.view' },
+  { to: '/run-sheet', label: 'Run sheet', perm: 'shipment.pick' },
+  { to: '/stock/where', label: 'Where everything is', perm: 'inventory.view' },
   { to: '/tomorrow', label: "Tomorrow's cases", perm: 'board.view' },
   { to: '/feedback', label: 'Feedback received', review: true },
   { to: '/uploads', label: 'Load files', perm: 'upload.view' },
@@ -173,6 +177,9 @@ function Shell({ me, refresh }: { me: Me; refresh: () => void }) {
             <Route path="/allocation" element={<Allocation />} />
             <Route path="/settings/ops" element={<OpsSettings />} />
             <Route path="/move-in" element={<MoveIn />} />
+            <Route path="/tracker" element={<CaseTracker />} />
+            <Route path="/run-sheet" element={<RunSheet />} />
+            <Route path="/stock/where" element={<WhereIsEverything />} />
             <Route path="/today" element={<MobileHome />} />
             <Route path="/cases" element={<Cases />} />
             <Route path="/cases/:id" element={<CaseDetail />} />

diff --git a/src/server/app.ts b/src/server/app.ts
@@ -35,6 +35,7 @@ import * as opsSettings from './ops/settings.js';
 import * as opsTransfers from './ops/transfers.js';
 import * as opsLoaners from './ops/loaners.js';
 import * as opsStock from './ops/stock.js';
+import * as opsVis from './ops/visibility.js';
 import { AVAILABILITY_SQL, ledgerReconciliation, reverseMovement, reserve } from './domain/inventory.js';
 import { parseScan } from '../shared/gs1.js';
 
@@ -253,6 +254,9 @@ export async function buildApp() {
   r('POST', '/api/stock/par', 'par.manage', async (db, ctx, req) => opsStock.setPar(db, ctx, B(req)));
   r('POST', '/api/stock/par/import', 'par.manage', async (db, ctx, req) => opsStock.importPars(db, ctx, B(req)));
   r('GET', '/api/move-in', 'upload.view', async (db, ctx) => opsStock.moveInStatus(db, await actxOf(db, ctx)));
+  r('GET', '/api/stock/where', 'inventory.view', async (db, ctx) => opsVis.whereIsEverything(db, await actxOf(db, ctx)));
+  r('GET', '/api/case-tracker', 'board.view', async (db, ctx) => opsVis.caseTracker(db, ctx));
+  r('GET', '/api/run-sheet', 'board.view', async (db, ctx) => opsVis.runSheet(db, await actxOf(db, ctx)));
   r('GET', '/api/stock/expiring', 'inventory.view', async (db, ctx) => opsStock.expiringStock(db, await actxOf(db, ctx)));
   r('GET', '/api/people', 'attention.view', async (db, ctx) => rows(db, `select id, display_name, role from users where active and facility_id is null and (role <> 'admin' or id=$1) order by display_name`, [ctx.userId]));
   r('POST', '/api/cases/:id/requirements/:reqId/reserve-available', 'reservation.manage', async (db, ctx, req) => reserveAvailable(db, await actxOf(db, ctx), P(req).id, P(req).reqId));

diff --git a/src/web/styles.css b/src/web/styles.css
@@ -198,3 +198,7 @@ ol.chain li.done { background:#dcf1e4; border-color:#9ad0ae; } ol.chain li.next 
 .chain-n { font-weight:600; }
 dl.kv { display:grid; grid-template-columns:max-content 1fr; gap:4px 16px; margin:0; } dl.kv dt { color:var(--muted); } dl.kv dd { margin:0; }
 input.par-in { width:80px; } ol.recall-actions li { margin-bottom:8px; }
+tr.row-bad > td { background:#fff5f4; }
+ol.track { list-style:none; display:flex; gap:3px; padding:0; margin:0; }
+ol.track li { width:22px; height:12px; border-radius:3px; background:#e3e8ed; } ol.track li.done { background:#3b9a5f; } ol.track li.next { background:#fff; box-shadow:inset 0 0 0 2px var(--brand); }
+@media print { header.top, nav#nav, .democlock, button, .fb-btn { display:none !important; } main { padding:0; } }

diff --git a/docs/command-center.md b/docs/command-center.md
@@ -13,6 +13,10 @@ Operations work them. This pass makes the work queue the home page and puts the 
 | **Loaners** | Requests to the account's outside loaner source, with the last cutoff that still arrives in time, then confirmation, inbound tracking, check-in (stock enters the ledger owned by the manufacturer and is reserved for the case), due-back date and return. Append-only chain of custody. |
 | **Allocation** | Demand against free stock for every item in the window, served in the account's rule order. One button reserves what is free; existing reservations are never taken away. |
 | **Par levels** / **Expiring stock** | Par against usable stock, reservations, case demand in the window and recorded usage; stock expiring inside the warning window with the earliest case that could use it first. |
+| **Case tracker** | Each case from entry to close in seven stages (Entered, Items reserved, Shipped, Checked in at hospital, Surgery done, Usage recorded, Closed) with the one thing it is waiting on. |
+| **Where everything is** | Every unit by where it is now: warehouse, with reps, at hospitals, in transit, quarantine, being returned; reserved against free; items short for the window listed first. |
+| **Run sheet** | What has to leave, grouped by origin, in order of latest safe departure (required-by minus the route's travel estimate). A deadline order, not a distance-optimized route. Printable. |
+| **Whose work** (on the queue) | Filter the queue by owner or by who it is waiting on, with a count per person. |
 | **Recall** | An action summary at the top: units affected, physically checked, needing verification, upcoming cases, and a numbered action list. |
 | **Move from another system** | What to export from RedSpot or Salesforce, where to load it, and where the move stands. |
 | **Settings** | Planning window, allocation rule, loaner source (name, daily cutoff, time zone, transit hours, return days), expiry warning. |
